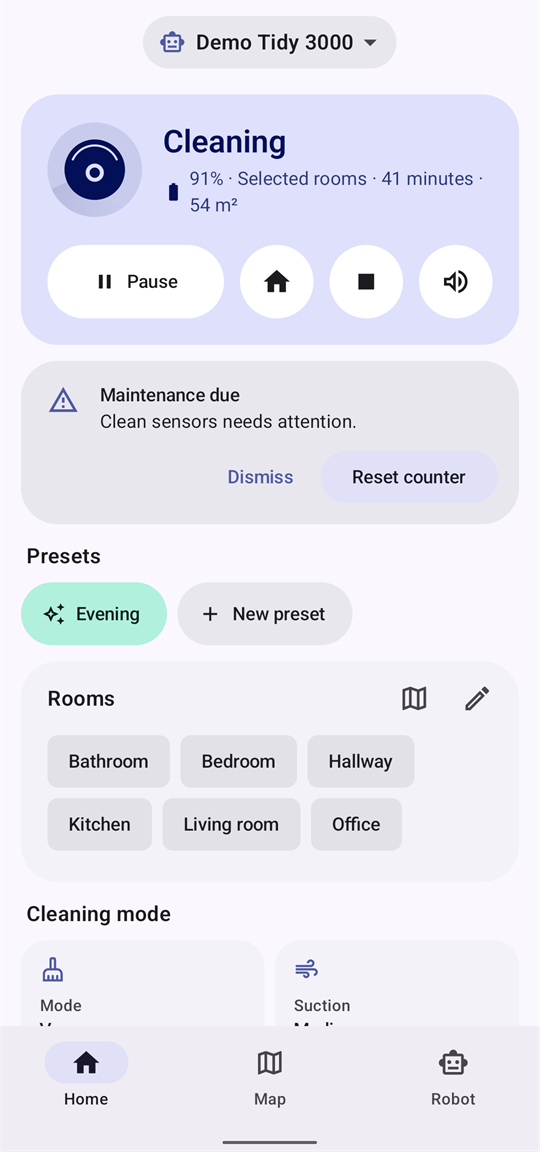
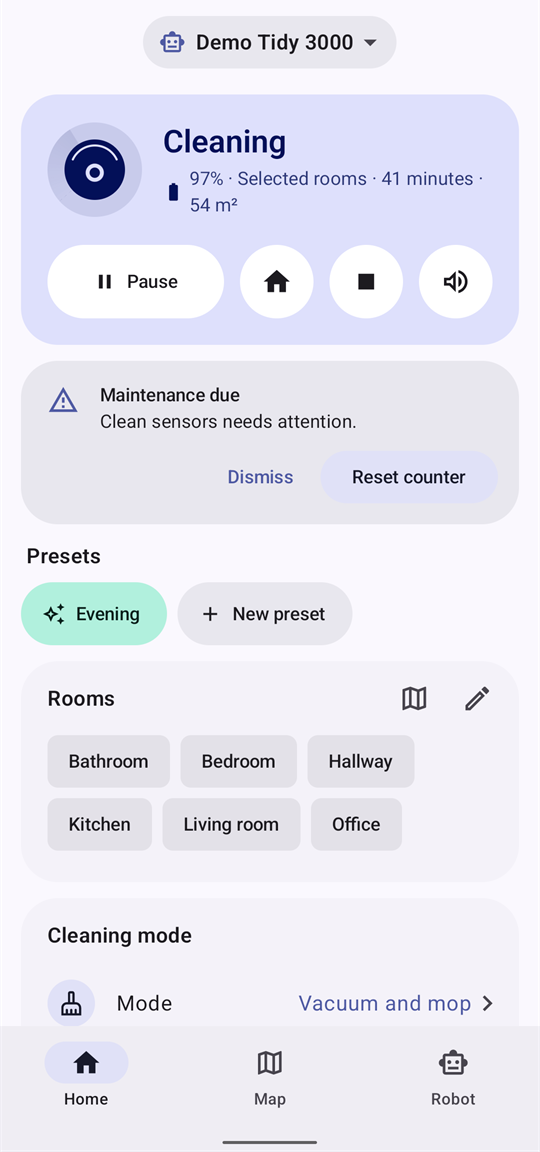
Show cleaning settings as a list
Mode, suction and water were three narrow tiles, so a long value such
as "Vacuum and mop" wrapped and the tiles got different heights. They
are now rows in one card with the value on the right, and the dock card
uses the same row layout. The home screenshot shows the new list.

diff --git a/app/src/main/java/io/github/dwicki/tidytudo/ui/home/HomeCards.kt b/app/src/main/java/io/github/dwicki/tidytudo/ui/home/HomeCards.kt
@@ -1,5 +1,9 @@
 package io.github.dwicki.tidytudo.ui.home
 
+import androidx.compose.material.icons.outlined.Check
+import androidx.compose.material.icons.automirrored.outlined.KeyboardArrowRight
+import androidx.compose.ui.text.style.TextAlign
+import androidx.compose.foundation.layout.Box
 import androidx.compose.animation.AnimatedVisibility
 import androidx.compose.animation.animateContentSize
 import androidx.compose.foundation.ExperimentalFoundationApi
@@ -26,7 +30,6 @@ import androidx.compose.material.icons.outlined.Add
 import androidx.compose.material.icons.outlined.Air
 import androidx.compose.material.icons.outlined.AutoAwesome
 import androidx.compose.material.icons.outlined.BookmarkAdd
-import androidx.compose.material.icons.outlined.CheckCircle
 import androidx.compose.material.icons.outlined.CleaningServices
 import androidx.compose.material.icons.outlined.Close
 import androidx.compose.material.icons.outlined.DeleteSweep
@@ -352,35 +355,25 @@ fun CleaningSettings(state: RobotState?, options: Map<String, List<String>>, ena
     if (settings.isEmpty()) return
     var open by rememberSaveable { mutableStateOf<String?>(null) }
 
-    Column {
-        SectionTitle(stringResource(R.string.home_modes_title))
-        Row(horizontalArrangement = Arrangement.spacedBy(8.dp)) {
+    // A settings list rather than tiles: long values ("Vacuum and mop", "Saugen und wischen") get the
+    // whole width next to their label instead of wrapping inside a narrow tile.
+    Card(
+        modifier = Modifier.fillMaxWidth(),
+        shape = MaterialTheme.shapes.large,
+        colors = CardDefaults.cardColors(containerColor = MaterialTheme.colorScheme.surfaceContainerLow),
+    ) {
+        Column(Modifier.padding(top = 4.dp, bottom = 8.dp)) {
+            Row(Modifier.fillMaxWidth().heightIn(min = 48.dp).padding(horizontal = 20.dp), verticalAlignment = Alignment.CenterVertically) {
+                Text(stringResource(R.string.home_modes_title), style = MaterialTheme.typography.titleMedium)
+            }
             settings.forEach { setting ->
-                Card(
-                    onClick = { open = setting.capability },
+                SettingRow(
+                    icon = setting.icon,
+                    label = stringResource(setting.label),
+                    value = setting.current?.let { Labels.preset(context, it) } ?: "–",
                     enabled = enabled,
-                    modifier = Modifier.weight(1f),
-                    shape = MaterialTheme.shapes.medium,
-                    colors = CardDefaults.cardColors(containerColor = MaterialTheme.colorScheme.surfaceContainerLow),
-                ) {
-                    Column(Modifier.padding(horizontal = 14.dp, vertical = 12.dp)) {
-                        Icon(setting.icon, contentDescription = null, tint = MaterialTheme.colorScheme.primary, modifier = Modifier.size(20.dp))
-                        Spacer(Modifier.height(10.dp))
-                        Text(
-                            stringResource(setting.label),
-                            style = MaterialTheme.typography.labelMedium,
-                            color = MaterialTheme.colorScheme.onSurfaceVariant,
-                            maxLines = 1,
-                            overflow = TextOverflow.Ellipsis,
-                        )
-                        Text(
-                            setting.current?.let { Labels.preset(context, it) } ?: "–",
-                            style = MaterialTheme.typography.titleSmall,
-                            maxLines = 2,
-                            overflow = TextOverflow.Ellipsis,
-                        )
-                    }
-                }
+                    onClick = { open = setting.capability },
+                )
             }
         }
     }
@@ -406,6 +399,40 @@ fun CleaningSettings(state: RobotState?, options: Map<String, List<String>>, ena
 }
 
 private data class Setting(val capability: String, val label: Int, val icon: ImageVector, val current: String?)
+
+/** One setting: icon, name, current value on the right, and an arrow that says it opens a choice. */
+@Composable
+private fun SettingRow(icon: ImageVector, label: String, value: String, enabled: Boolean, onClick: () -> Unit) {
+    val colors = MaterialTheme.colorScheme
+    Row(
+        modifier = Modifier
+            .fillMaxWidth()
+            .heightIn(min = 56.dp)
+            .clickable(enabled = enabled, role = Role.Button, onClick = onClick)
+            .padding(start = 20.dp, end = 12.dp, top = 6.dp, bottom = 6.dp),
+        verticalAlignment = Alignment.CenterVertically,
+    ) {
+        Surface(shape = CircleShape, color = colors.secondaryContainer, modifier = Modifier.size(36.dp)) {
+            Box(contentAlignment = Alignment.Center) {
+                Icon(icon, contentDescription = null, tint = colors.onSecondaryContainer, modifier = Modifier.size(20.dp))
+            }
+        }
+        Spacer(Modifier.width(16.dp))
+        Text(label, style = MaterialTheme.typography.bodyLarge, maxLines = 1)
+        Spacer(Modifier.width(12.dp))
+        Text(
+            value,
+            style = MaterialTheme.typography.bodyLarge,
+            color = if (enabled) colors.primary else colors.onSurfaceVariant,
+            // Two lines for long German values such as "Erst saugen, dann wischen" on narrow phones.
+            maxLines = 2,
+            overflow = TextOverflow.Ellipsis,
+            textAlign = TextAlign.End,
+            modifier = Modifier.weight(1f),
+        )
+        Icon(Icons.AutoMirrored.Outlined.KeyboardArrowRight, contentDescription = null, tint = colors.onSurfaceVariant)
+    }
+}
 
 private const val MODE_MOP = "mop"
 private const val MODE_VACUUM = "vacuum"
@@ -440,26 +467,50 @@ fun DockCard(state: RobotState?, capabilities: Set<String>, busyAction: String?,
         shape = MaterialTheme.shapes.large,
         colors = CardDefaults.cardColors(containerColor = MaterialTheme.colorScheme.surfaceContainerLow),
     ) {
-        ListItem(
-            modifier = Modifier.clickable(role = Role.Button) { expanded = !expanded },
-            leadingContent = {
-                Icon(
-                    if (problems.isEmpty()) Icons.Outlined.CheckCircle else Icons.Outlined.WarningAmber,
-                    contentDescription = null,
-                    tint = if (problems.isEmpty()) MaterialTheme.colorScheme.primary else MaterialTheme.colorScheme.error,
+        // Same layout as the setting rows above: round icon, text, control on the right.
+        val colors = MaterialTheme.colorScheme
+        val healthy = problems.isEmpty()
+        Row(
+            modifier = Modifier
+                .fillMaxWidth()
+                .heightIn(min = 72.dp)
+                .clickable(enabled = healthy, role = Role.Button) { expanded = !expanded }
+                .padding(start = 20.dp, end = 12.dp, top = 12.dp, bottom = 12.dp),
+            verticalAlignment = Alignment.CenterVertically,
+        ) {
+            Surface(
+                shape = CircleShape,
+                color = if (healthy) colors.secondaryContainer else colors.errorContainer,
+                modifier = Modifier.size(36.dp),
+            ) {
+                Box(contentAlignment = Alignment.Center) {
+                    Icon(
+                        if (healthy) Icons.Outlined.Check else Icons.Outlined.WarningAmber,
+                        contentDescription = null,
+                        tint = if (healthy) colors.onSecondaryContainer else colors.onErrorContainer,
+                        modifier = Modifier.size(20.dp),
+                    )
+                }
+            }
+            Spacer(Modifier.width(16.dp))
+            Column(Modifier.weight(1f)) {
+                Text(stringResource(R.string.home_dock_title), style = MaterialTheme.typography.titleMedium)
+                Text(
+                    summary,
+                    style = MaterialTheme.typography.bodyMedium,
+                    color = if (healthy) colors.onSurfaceVariant else colors.error,
                 )
-            },
-            headlineContent = { Text(stringResource(R.string.home_dock_title), style = MaterialTheme.typography.titleMedium) },
-            supportingContent = {
-                Text(summary, color = if (problems.isEmpty()) MaterialTheme.colorScheme.onSurfaceVariant else MaterialTheme.colorScheme.error)
-            },
-            trailingContent = {
-                if (problems.isEmpty()) Icon(if (open) Icons.Outlined.ExpandLess else Icons.Outlined.ExpandMore, contentDescription = null)
-            },
-            colors = ListItemDefaults.colors(containerColor = Color.Transparent),
-        )
+            }
+            if (healthy) {
+                Icon(
+                    if (open) Icons.Outlined.ExpandLess else Icons.Outlined.ExpandMore,
+                    contentDescription = null,
+                    tint = colors.onSurfaceVariant,
+                )
+            }
+        }
         AnimatedVisibility(visible = open) {
-            Column(Modifier.padding(start = 16.dp, end = 16.dp, bottom = 16.dp)) {
+            Column(Modifier.padding(start = 20.dp, end = 20.dp, bottom = 16.dp)) {
                 state?.attachments?.forEach { attachment ->
                     StatusRow(
                         label = Labels.attachment(context, attachment.type),

diff --git a/CHANGELOG.md b/CHANGELOG.md
@@ -7,7 +7,7 @@ Home screen redesign:
 - Status and controls in one card whose colour follows the state (docked, cleaning, paused, error), with a new robot drawing and one summary line: battery, what the robot or dock is doing, elapsed time and area
 - One main button: "Clean all", or "Clean n rooms" as soon as rooms are selected
 - Filled room chips with clearer selection; while rooms are selected the card says how many and offers to clear them; passes are a segmented control
-- Mode, suction and water as compact tiles that open a picker; settings that do nothing in the current mode are hidden
+- Mode, suction and water as a settings list (name left, value right) that opens a picker, so long values such as "Vacuum and mop" fit; settings that do nothing in the current mode are hidden
 - Presets as pills right below the status, hidden while there are none
 - The dock collapses to one line while all is well and opens by itself when something needs attention
 - The robot name in the top bar is a pill that opens the switcher; the bar tints when content scrolls under it
